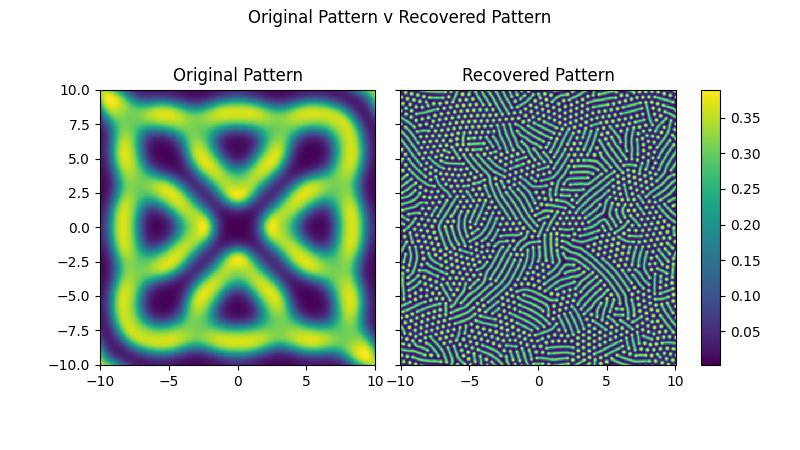
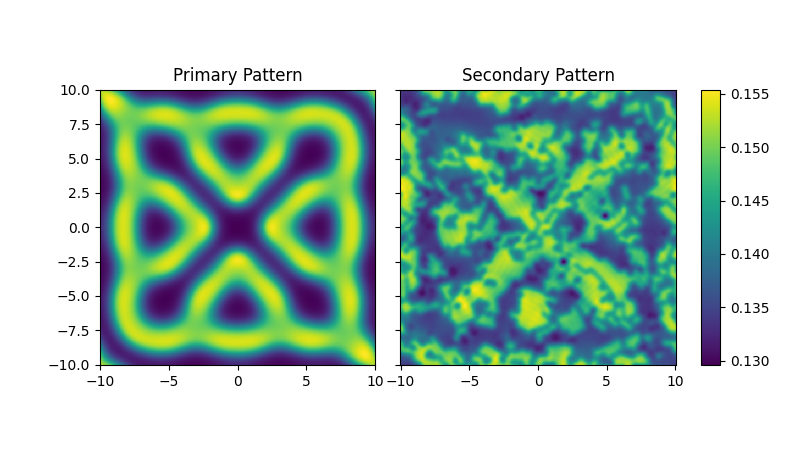
Plots and things

diff --git a/varied-gs.py b/varied-gs.py
@@ -70,10 +70,10 @@ Third attempt, this time make the starting model even larger.
 # variedgs.set_activator(np.ones(variedgs.x.shape))
 # variedgs.add_inhibitor(r=0.5, amount=1.0)
 
-# Model.to_file(variedgs, 'data/variedgs-nested3', frames=2600, steps_per_frame=100)
+# Model.to_file(variedgs, 'data/variedgs-nested3', frames=1000, steps_per_frame=100)
 
 # Ran this line in parallel to above.
-# Model.create_animation('variedgs/nested3', 'data/variedgs-nested3', 'Inhibitor', frame_count=2600, frame_skip=100)
+# Model.create_animation('variedgs/nested3_cut_mores', 'data/variedgs/variedgs-nested3', 'Inhibitor', frame_count=681, frame_skip=100)
 
 """
 Plot an average value of the previous nested graph against the 
@@ -83,34 +83,44 @@ nested_pattern, _, _ = Model.get_last("data/variedgs/variedgs-nested3")
 
 # Perform a Gaussian blur and then 
 # average over an area of n*n cells
-n = 15
+n = 10
 stencil = np.ones((n,n))/(n*n)
 recovered_pattern = nested_pattern['Inhibitor']
 # recovered_pattern = 1 - recovered_pattern
 # recovered_pattern = ndimage.convolve(recovered_pattern, stencil, mode='wrap')
 # recovered_pattern = ndimage.gaussian_filter(recovered_pattern, 5.5, mode='wrap')
 
-fig = plt.figure(figsize=(8,4.5))
-axs = ImageGrid(fig, 111,          # as in plt.subplot(111)
+import pywt
+a, (hd, vd, dd) = pywt.dwt2(recovered_pattern, 'bior1.3')
+recovered_pattern = hd + vd + dd
+
+fig = plt.figure(figsize=(8,4))
+axs = ImageGrid(fig, 111,
 			nrows_ncols=(1,2),
 			axes_pad=0.25,
 			share_all=True,
-			cbar_location="right",
-			cbar_mode="single",
-			cbar_size="7%",
-			cbar_pad=0.25,
+			# cbar_location="right",
+			# cbar_mode="single",
+			# cbar_size="7%",
+			# cbar_pad=0.25,
 			)
 
 fig.suptitle("Original Pattern v Recovered Pattern")
-quad0=axs[0].pcolormesh(x,y,original_pattern['Inhibitor'])
-axs[0].set_title("Original Pattern")
-quad1=axs[1].pcolormesh(x,y,recovered_pattern)
-axs[1].set_title("Recovered Pattern")
+quad0=axs[0].imshow(original_pattern['Inhibitor'])
+axs[0].set_title("Primary Pattern")
+quad1=axs[1].imshow(recovered_pattern)
+axs[1].set_title("Secondary Pattern (Wavelet)")
 
-axs[0].cax.cla()
-cb = Colorbar(axs[0].cax, quad1)
+# axs[0].cax.cla()
+# cb = Colorbar(axs[0].cax, quad1)
 # cb2 = Colorbar(axs[1].cax, quad1)
 
-[ax.set_box_aspect(1.0) for ax in axs]
+# [ax.set_box_aspect(1.0) for ax in axs]
 
-fig.savefig("plots/varied-original_v_recovered.png")
+fig.savefig("plots/variedgs/nested_comp_wavelet.png")
+
+'''
+Just a plot of the recovered pattern.
+'''
+original_pattern, x, y = Model.get_last("data/gs/gs_large_scale3")
+# Model.create_plot('variedgs/nested_pattern', 'data/variedgs/variedgs-nested3', ['Inhibitor'],)

diff --git a/mapped-gs.py b/mapped-gs.py
@@ -163,8 +163,8 @@ recovered_pattern = ndimage.gaussian_filter(recovered_pattern, 5.5, mode='wrap')
 
 # fig, ax = plt.subplots(nrows=1, ncols=2, figsize=(10, 5), sharey=True)
 
-fig = plt.figure(figsize=(8,4.5))
-axs = ImageGrid(fig, 111,          # as in plt.subplot(111)
+fig = plt.figure(figsize=(8,4))
+axs = ImageGrid(fig, 111,
 			nrows_ncols=(1,2),
 			axes_pad=0.25,
 			share_all=True,
@@ -174,11 +174,11 @@ axs = ImageGrid(fig, 111,          # as in plt.subplot(111)
 			cbar_pad=0.25,
 			)
 
-fig.suptitle("Major Pattern v Recovered Pattern")
+# fig.suptitle("Primary Pattern v Recovered Pattern")
 quad0=axs[0].pcolormesh(x,y,original_pattern['Mapped_Kill'])
-axs[0].set_title("Major Pattern")
+axs[0].set_title("Primary Pattern")
 quad1=axs[1].pcolormesh(x,y,recovered_pattern)
-axs[1].set_title("Recovered Pattern")
+axs[1].set_title("Secondary Pattern (Average + Gauss)")
 
 axs[0].cax.cla()
 cb = Colorbar(axs[0].cax, quad1)
@@ -186,4 +186,4 @@ cb = Colorbar(axs[0].cax, quad1)
 
 [ax.set_box_aspect(1.0) for ax in axs]
 
-fig.savefig("plots/major_v_recovered_gauss+averaged.png")
+fig.savefig("plots/mappedgs/bad_scale_comp_2.png")
